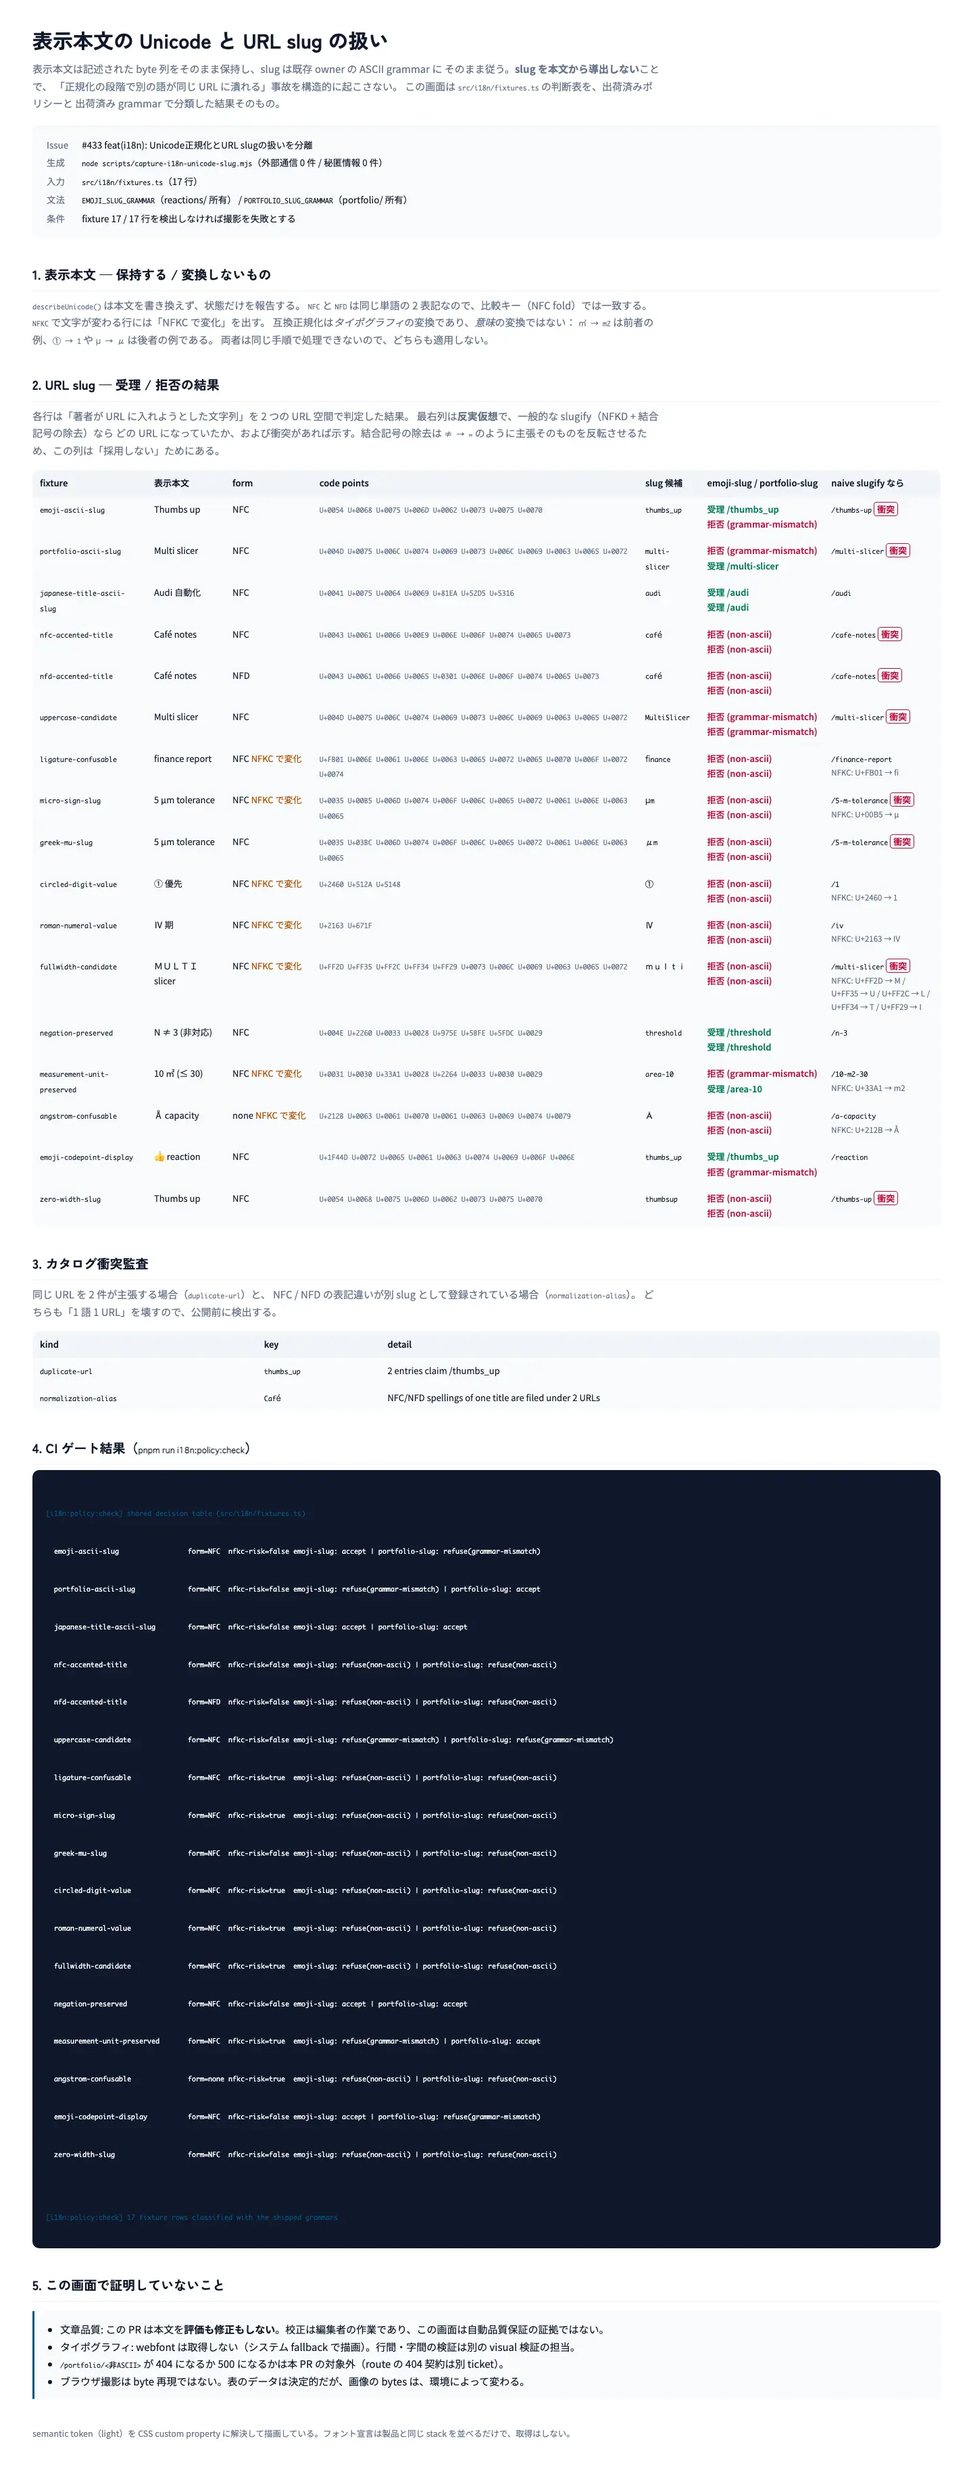
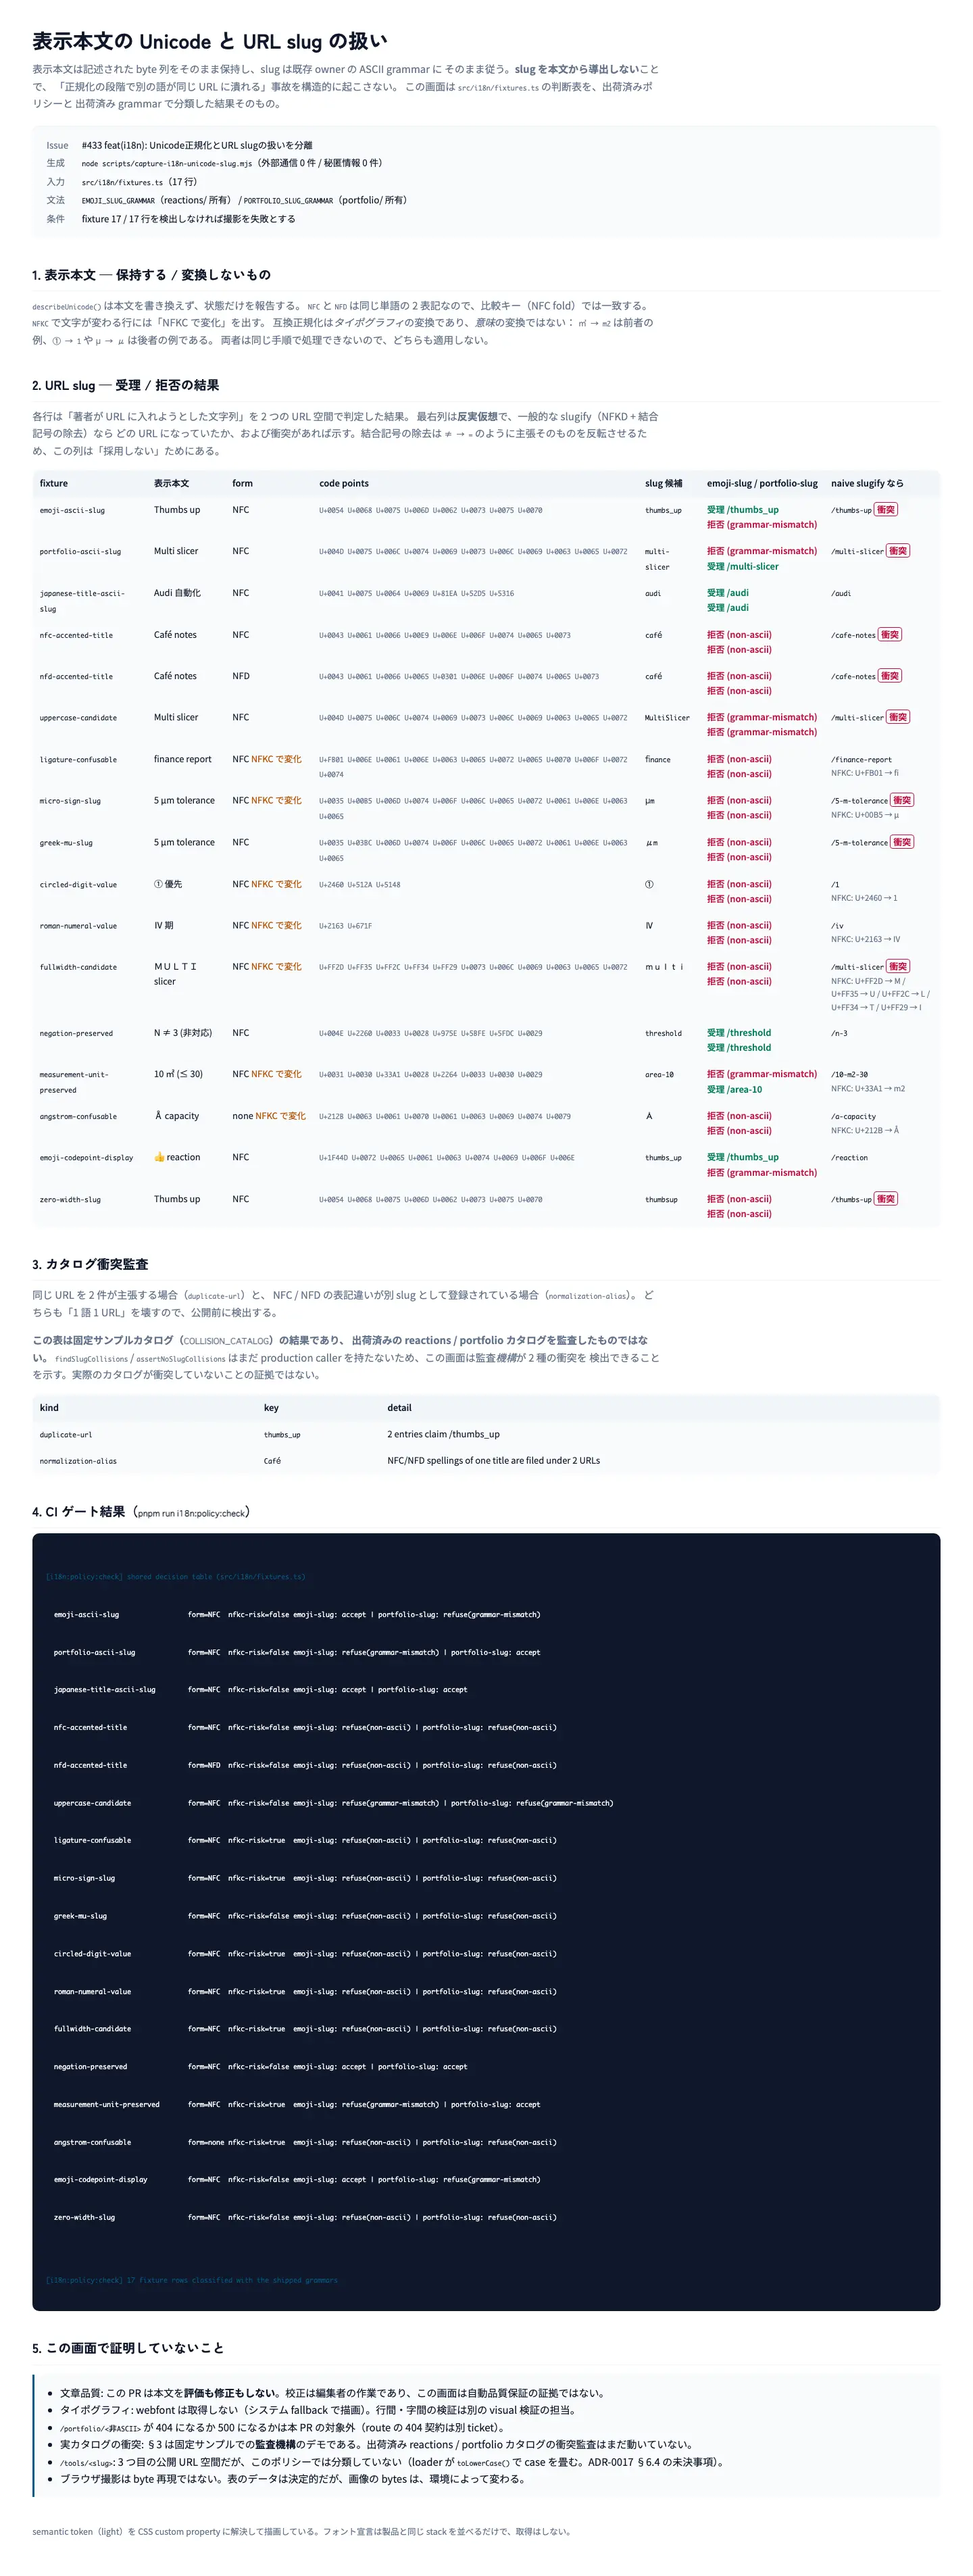
docs(verification): re-capture the i18n report so the artefact matches the script (#433)
The report HTML gained the fixed-catalog disclosure and the /tools/$slug
line, so the committed WebP no longer showed what the capture script
renders. Regenerated with `pnpm run capture:i18n-verification`:1440x3812,
265 kB WebP (budget 300 kB), RIFF/WEBP, non-blank. The intermediate PNG is
deleted by the script and the .md's size figures are refreshed.

diff --git a/docs/verification/i18n/unicode-slug-validation.md b/docs/verification/i18n/unicode-slug-validation.md
@@ -14,7 +14,7 @@
 | capture 手段 | `node scripts/capture-i18n-unicode-slug.mjs`（= `pnpm run capture:i18n-verification`） |
 | 描画 CSS | `src/editorial/semantic-tokens.ts`（light）を CSS custom property に解決したもの。**webfont は取得しない**（宣言のみ、システム fallback で描画） |
 | viewport / DPR | 1440 x 900 / 1（`fullPage` 撮影） |
-| 生成物サイズ | 1440 x 3668 px、**243 kB** WebP（quality 75、budget 300 kB） |
+| 生成物サイズ | 1440 x 3812 px、**265 kB** WebP（quality 75、budget 300 kB） |
 | 撮影時の fixture 行数 | 17（`assertFixtureCount` が 17 以外で失敗する。空または部分的な画面の黙認をしない） |
 | 外部通信 | **0 件**。webfont を fetch せず `setContent` で描画するので、origin 自体が存在しない |
 | 再現性 | 判断表と分類結果は決定的。ブラウザ撮影は byte 再現ではない |
@@ -131,7 +131,7 @@ walk する）。同じ式を 2 回渡す恒真な assertion は置かない。
 | URL parameter の case folding | gate に「URL slug を case fold する」rule が無いため、`/tools/MultiSlicer` は 200 を返す | 意図的に未決。ADR-0017 §6.4 / §7.4 に記録。緑 = 「classified 済み」ではない |
 | カタログ衝突 audit の未配線 | `findSlugCollisions` / `assertNoSlugCollisions` に production caller が無い | 検証画面の §2.4 は固定サンプルでの機構デモ。実カタログの監査は別 ticket |
 | capture は browser 依存 | Playwright chromium を local に必要とする | 既に devDependency。`--no-capture` なら browser 無しで evidence を生成できる |
-| 画像サイズ | 243 kB / budget 300 kB | quality 75、width <= 1600 で抑制。budget 超過時は script が失敗する |
+| 画像サイズ | 265 kB / budget 300 kB | quality 75、width <= 1600 で抑制。budget 超過時は script が失敗する |
 
 ## 7. 未決事項（owner 判断）
 
